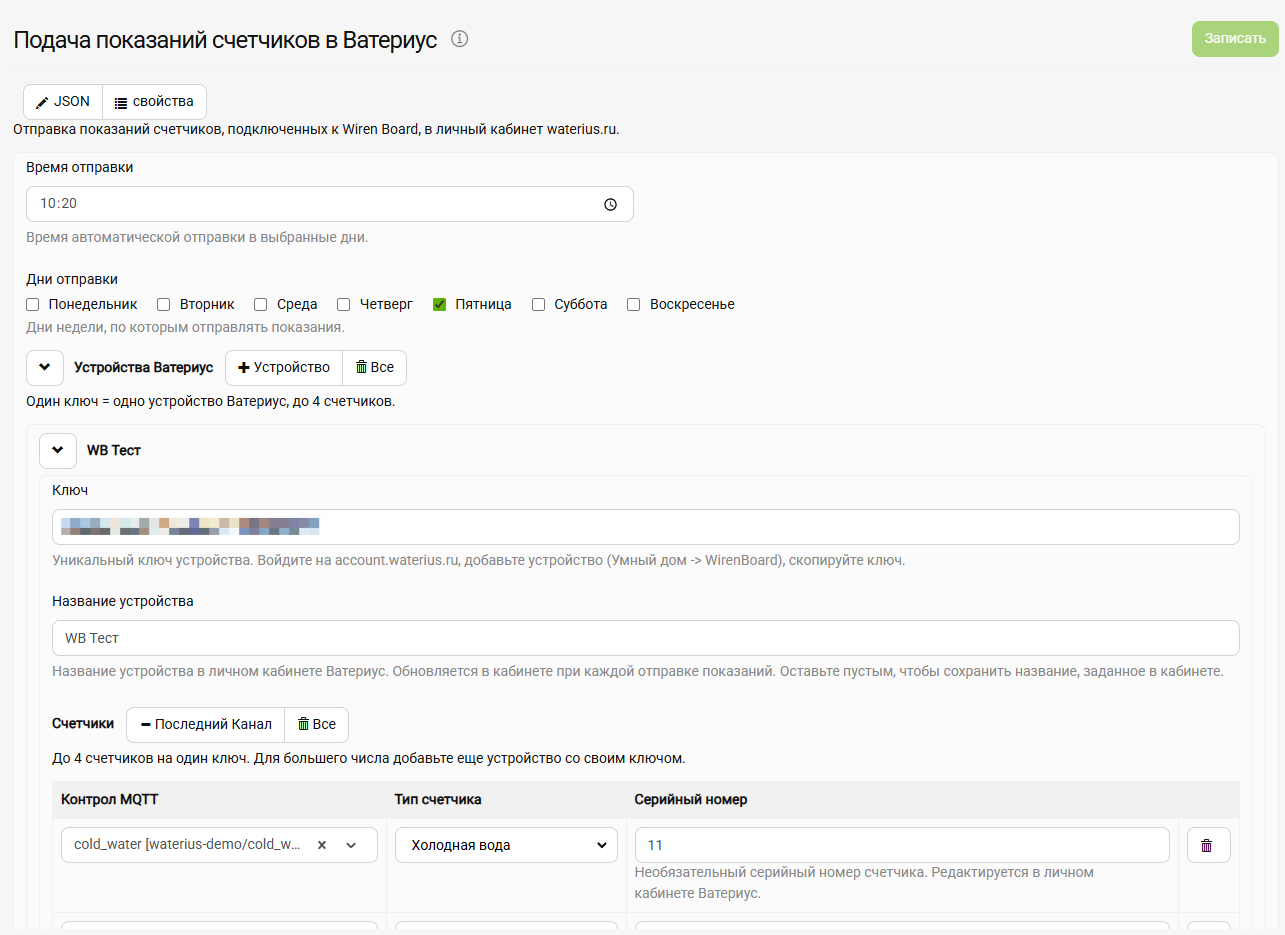
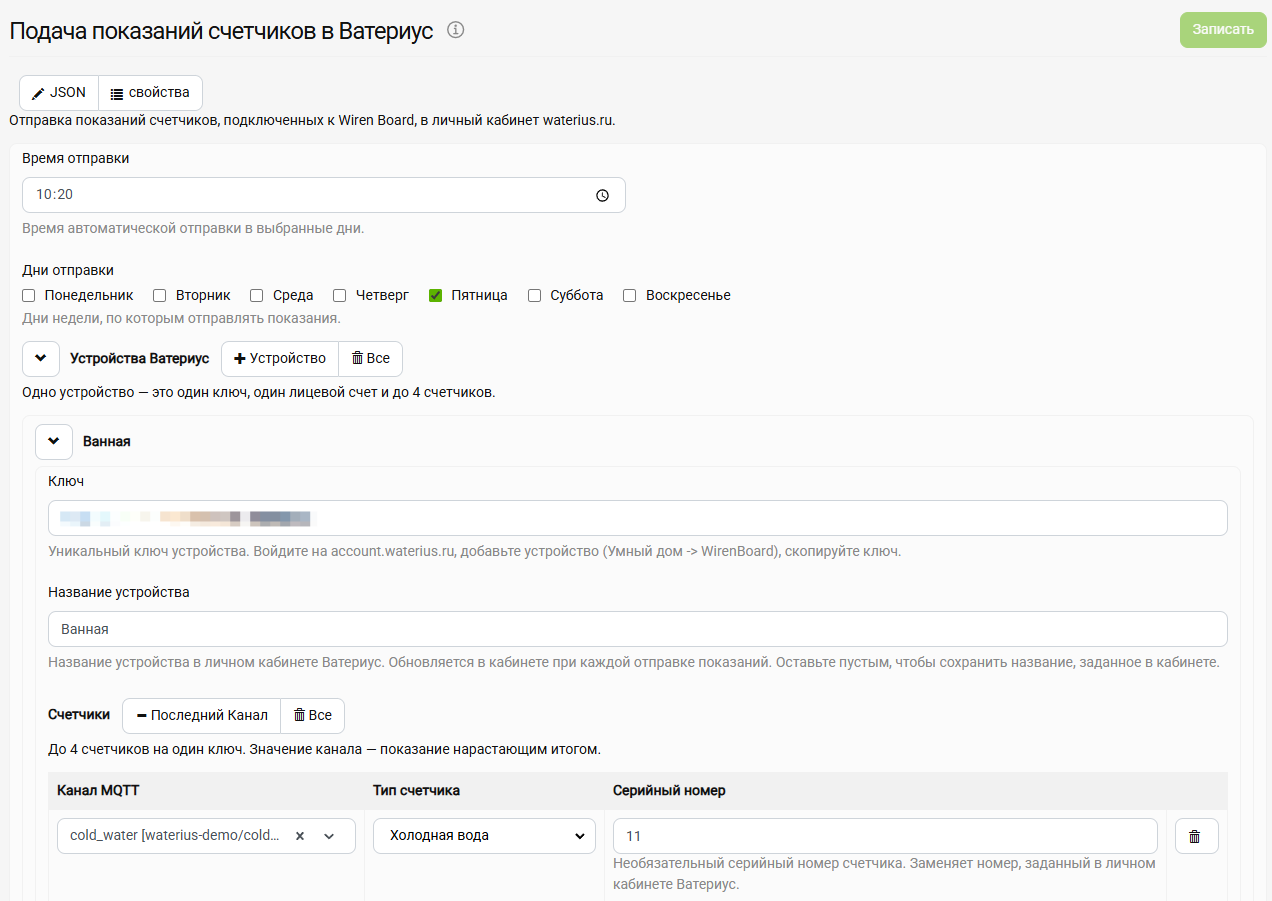
update after claude review

diff --git a/tests/test_service.py b/tests/test_service.py
@@ -438,6 +438,34 @@ def test_a_reconnect_republishes_the_status(monkeypatch: pytest.MonkeyPatch) -> 
     assert client.last(f"{INTEGRATION_BASE}/controls/next_execution") == "Thursday 2026-07-16 12:00"
 
 
+def test_a_missed_slot_minute_still_moves_next_execution(monkeypatch: pytest.MonkeyPatch) -> None:
+    # A long pass steps over the exact minute. The catch-up sends what has no mark anyway, and
+    # the next-run text has to follow the slot the loop never saw.
+    config = _config(Device("K1", [Channel("d/c", 0)]))
+    topic = config.devices[0].channels[0].mqtt_topic
+    service_instance, client = _service(
+        config, values={topic: "10"}, now=datetime.datetime(2026, 7, 16, 12, 1)
+    )
+    _patch_send(monkeypatch, lambda payload, stop_event=None: waterius_api.SendResult(True, 200))
+    service_instance._send_scheduled()
+    assert client.last(f"{INTEGRATION_BASE}/controls/next_execution") == "Friday 2026-07-17 12:00"
+
+
+def test_the_next_run_text_goes_out_once_a_day(monkeypatch: pytest.MonkeyPatch) -> None:
+    # Every later pass of the same day sees the same slot, so the control is left alone.
+    config = _config(Device("K1", [Channel("d/c", 0)]))
+    topic = config.devices[0].channels[0].mqtt_topic
+    service_instance, client = _service(
+        config, values={topic: "10"}, now=datetime.datetime(2026, 7, 16, 12, 1)
+    )
+    _patch_send(monkeypatch, lambda payload, stop_event=None: waterius_api.SendResult(True, 200))
+    service_instance._send_scheduled()
+    client.published.clear()
+    service_instance._datetime_now = lambda: datetime.datetime(2026, 7, 16, 12, 2)
+    service_instance._send_scheduled()
+    assert f"{INTEGRATION_BASE}/controls/next_execution" not in [topic for topic, *_ in client.published]
+
+
 def test_the_scheduled_fire_moves_next_execution(monkeypatch: pytest.MonkeyPatch) -> None:
     # The slot has just been used, so the control has to point at the next allowed day. Nothing
     # else would move it before the next reconnect.
@@ -720,6 +748,69 @@ def test_a_restart_resumes_the_device_left_unsent(monkeypatch: pytest.MonkeyPatc
     fail_k2["on"] = False  # K2 recovers while the service was down
     restarted._send_scheduled()
     assert calls == ["K2"]
+
+
+class _FakeSignals:  # pylint: disable=too-few-public-methods
+    """
+    Stand-in for the signal module, so the test runs where SIGHUP does not exist.
+    """
+
+    SIGTERM, SIGINT, SIGHUP = 15, 2, 1
+
+    def __init__(self) -> None:
+        self.handlers: dict[int, Callable] = {}
+
+    def signal(self, signum: int, handler: Callable) -> None:
+        self.handlers[signum] = handler
+
+
+def test_a_source_value_arrives_through_the_client() -> None:
+    # The daemon rests on this wiring: the subscription has to hand incoming values to the
+    # reading callback, or every device reports no data and nothing is ever sent.
+    config = _config(Device("K1", [Channel("d/c", 0)]))
+    topic = config.devices[0].channels[0].mqtt_topic
+    service_instance, client = _service(config, values={})
+    service_instance._subscribe_readings()
+    client.publish(topic, "12.5")
+    assert service_instance._source_values[topic] == "12.5"
+    assert client.last(f"{KEY_DEVICE1_BASE}/controls/ch0") == "12.5"  # mirrored on the card too
+
+
+def test_the_daemon_stops_on_every_signal_it_takes(tmp_path: Path, monkeypatch: pytest.MonkeyPatch) -> None:
+    # SIGHUP is a stop here, not the config reload the convention suggests, so the whole set is
+    # worth pinning. Each handler has to reach stop_service, which is what ends the poll loop.
+    (tmp_path / "wb.conf").write_text(
+        '{"sendTime": "03:00", "daysOfWeek": ["monday"], "devices": []}', encoding="utf-8"
+    )
+    signals = _FakeSignals()
+    monkeypatch.setattr(service, "signal", signals)
+    started: dict[str, service.Service] = {}
+    monkeypatch.setattr(service.Service, "run", lambda self: started.setdefault("service", self))
+
+    assert service.main_daemon(str(tmp_path / "wb.conf"), client=FakeClient()) == service.EXIT_SUCCESS
+    assert set(signals.handlers) == {signals.SIGTERM, signals.SIGINT, signals.SIGHUP}
+    for signum, handler in signals.handlers.items():
+        started["service"]._stop_event.clear()
+        handler(signum, None)
+        assert started["service"]._stop_event.is_set()
+        assert started["service"]._wake_event.is_set()  # the loop wakes instead of sleeping out
+
+
+def test_the_slot_fires_again_the_next_day(monkeypatch: pytest.MonkeyPatch) -> None:
+    # The guard remembers the minute it fired in, so it has to remember the day as well —
+    # otherwise a long-lived daemon fires on its first day and never again.
+    config = _config(Device("K1", [Channel("d/c", 0)]))
+    topic = config.devices[0].channels[0].mqtt_topic
+    service_instance, _ = _service(config, values={topic: "10"})  # NOW is the send minute
+    sent: list[str] = []
+    _patch_send(
+        monkeypatch,
+        lambda payload, stop_event=None: sent.append(payload["key"]) or waterius_api.SendResult(True, 200),
+    )
+    service_instance._send_scheduled()
+    service_instance._datetime_now = lambda: NOW + datetime.timedelta(days=1)
+    service_instance._send_scheduled()
+    assert sent == ["K1", "K1"]
 
 
 def test_main_daemon_config_error_reports_invalid_state(

diff --git a/wb/mqtt_waterius/service.py b/wb/mqtt_waterius/service.py
@@ -102,6 +102,20 @@ def connect_and_wait(client: MQTTClient, timeout: int = CONNECT_TIMEOUT) -> None
 
 
 class Service:  # pylint: disable=too-many-instance-attributes
+    """
+    The daemon itself: schedule, sending, persistent state and the WB devices around them.
+
+    Lives in two threads. The poll loop owns the schedule, the sending and every publish to the
+    status controls, while the paho thread only brings in source readings and switch clicks and
+    hands the rest to the loop through events.
+
+    Args:
+        config: parsed configuration
+        endpoint: Waterius universal API URL
+        datetime_now_fn: source of the current time, injected so tests can freeze or advance it
+        client: MQTT client, injected by the entry points that need their own id and by tests
+    """
+
     def __init__(
         self,
         config: Config,
@@ -218,10 +232,10 @@ class Service:  # pylint: disable=too-many-instance-attributes
         """
         Publish the next-run control.
 
-        Three occasions move it — a (re)connect, which wipes the control, the scheduled minute,
-        which takes the slot to the next allowed day, and the switch, which turns the text into
-        a dash and back. Published at those three points, so nothing has to remember what the
-        broker was given last.
+        Three occasions move it — a (re)connect, which wipes the control, the first schedule
+        pass of the day past the slot, which takes it to the next allowed day, and the switch,
+        which turns the text into a dash and back. Published at those three points, so nothing
+        has to remember what the broker was given last.
         """
         now = self._datetime_now()
         if self._enabled and self._config.devices:
@@ -276,14 +290,11 @@ class Service:  # pylint: disable=too-many-instance-attributes
         by the send itself, which names both the device and the topics.
         """
         topics = self._config.all_topics()
-        missing = [topic for topic in topics if not self._source_values.get(topic)]
-
         for _ in range(int(READINGS_TIMEOUT / READINGS_POLL)):
-            if not missing:
+            if all(self._source_values.get(topic) for topic in topics):
                 return
             if self._stop_event.wait(READINGS_POLL):
                 return
-            missing = [topic for topic in topics if not self._source_values.get(topic)]
 
     def _get_snapshot(self, device: Device) -> tuple[list[ChannelData], list[str]]:
         """
@@ -311,7 +322,8 @@ class Service:  # pylint: disable=too-many-instance-attributes
         """
         Build and log the payload of every configured device without sending anything.
 
-        Nothing outside is touched, not the cloud, not the WB devices, not the saved state.
+        The cloud is not touched, the payloads only reach the log. What the command around this
+        method does touch is listed in run_once.
 
         Returns:
             True when every device had a full set of readings
@@ -505,14 +517,18 @@ class Service:  # pylint: disable=too-many-instance-attributes
         if (now.hour, now.minute) < (self._send_hour, self._send_minute):
             return
         today = now.date().isoformat()
+        # The first pass of the day to get here is the one that finds today's slot behind it,
+        # whether it landed on the exact minute or stepped over it, so the next-run text follows.
+        first_pass_today = self._last_schedule_run is None or self._last_schedule_run[0] != today
         # A reconnect wakes the poll early, so the same minute can come round twice. Without
         # this the slot would fire twice and a failed device would be re-POSTed seconds apart.
         if self._last_schedule_run == (today, now.hour, now.minute):
             return
         self._last_schedule_run = (today, now.hour, now.minute)
+        if first_pass_today:
+            self._publish_next_run()
         if (now.hour, now.minute) == (self._send_hour, self._send_minute):
             self.send_now()
-            self._publish_next_run()  # the slot just moved to the next allowed day
             return
         unsent = self._get_unsent_devices(now)
         if unsent:
@@ -630,6 +646,11 @@ class Service:  # pylint: disable=too-many-instance-attributes
         Waiting for the source values belongs to the send itself, so this only connects,
         subscribes and dispatches. Unlike the daemon it makes a single pass with no retry, so
         a value that has not arrived by then is reported instead of being picked up later.
+
+        The command shares the devices and the state file with the daemon, in both modes. The
+        subscription mirrors the source values onto the key devices, the constructor rewrites
+        the state file when it prunes, and the outcome of a real send lands on the integration
+        device, so a manual send shows up on the card the same way a scheduled one does.
 
         Args:
             dry_run: build and log the payloads instead of posting them

diff --git a/wb/mqtt_waterius/mqtt_device.py b/wb/mqtt_waterius/mqtt_device.py
@@ -352,7 +352,7 @@ class _PublishedDevice:
         command that would arrive as a real one. Emptying a topic the broker never held costs
         one publish and nothing else.
         """
-        topics = []
+        topics: list[str] = []
         for control in self._controls:
             topic = self._control_topic(control)
             topics.extend([topic, f"{topic}/meta", f"{topic}/meta/error"])
@@ -374,6 +374,7 @@ class PerKeyDevice(_PublishedDevice):
         self._build_channels()
         # Restored from persistent state, kept current so a reconnect republishes it.
         self._last_sent = last_sent
+        self._last_error = ""  # filled by mark_failed, republished the same way
         super().__init__(
             client,
             base=f"/devices/{build_key_device_id(index)}",
@@ -408,10 +409,11 @@ class PerKeyDevice(_PublishedDevice):
     def _publish_initial_values(self) -> None:
         for control in self._channels:
             self._publish_control(control, "")
-        # Restore the persisted "Last Sent". "Errors" starts empty.
+        # Both come off the instance, so a reconnect brings the card back as it was. The stamp
+        # starts from the state file, the error text lives as long as the process.
         self._publish_control(KEY_LAST_SENT, self._last_sent)
-        self._publish_control(KEY_LAST_ERROR, "")
-        self._set_error(False)
+        self._publish_control(KEY_LAST_ERROR, self._last_error)
+        self._set_error(bool(self._last_error))
 
     def update_channel(self, mqtt_topic: str, raw_value: Optional[str]) -> None:
         """
@@ -443,6 +445,7 @@ class PerKeyDevice(_PublishedDevice):
         The stamp is kept in the instance too, so a reconnect republishes it.
         """
         self._last_sent = timestamp
+        self._last_error = ""
         self._publish_control(KEY_LAST_SENT, timestamp)
         self._publish_control(KEY_LAST_ERROR, "")
         self._set_error(False)
@@ -450,7 +453,11 @@ class PerKeyDevice(_PublishedDevice):
     def mark_failed(self, detail: str) -> None:
         """
         A failed send (API error or unavailable channels): show detail on "Errors".
+
+        The text is kept in the instance for the same reason the stamp is — the clean slate of a
+        reconnect wipes the card, while the service keeps its verdict in memory.
         """
+        self._last_error = detail
         self._publish_control(KEY_LAST_ERROR, detail)
         self._set_error(True)
 
@@ -632,7 +639,7 @@ class WateriusDevices:
         rest of the system.
         """
         self._integration_device.unsubscribe_switch()
-        topics = []
+        topics: list[str] = []
         for key_device in self._key_devices:
             topics.extend(key_device.remove())
         topics.extend(self._integration_device.remove())

diff --git a/tests/test_mqtt_device.py b/tests/test_mqtt_device.py
@@ -341,6 +341,30 @@ def test_clear_through_the_facade_wipes_the_same_topics() -> None:
     }
 
 
+def test_a_key_device_error_survives_a_reconnect() -> None:
+    # The reconnect wipes the card and recreates it, while the service keeps its verdict in
+    # memory. A device that forgot its error would leave the integration red without a reason.
+    client = FakeClient()
+    devices = _devices(client, _single_config())
+    devices.create()
+    devices.mark_device_failed(0, "Key not accepted by Waterius")
+    devices.remove()
+    devices.create()
+    assert client.last(f"{KEY_DEVICE1_BASE}/controls/last_error") == "Key not accepted by Waterius"
+    assert client.last(f"{KEY_DEVICE1_BASE}/controls/last_error/meta/error") == "w"
+
+
+def test_a_successful_send_clears_the_remembered_error() -> None:
+    client = FakeClient()
+    devices = _devices(client, _single_config())
+    devices.mark_device_failed(0, "HTTP 500")
+    devices.mark_device_sent(0, "2026-01-01 03:00:00")
+    devices.remove()
+    devices.create()
+    assert client.last(f"{KEY_DEVICE1_BASE}/controls/last_error") == ""
+    assert client.last(f"{KEY_DEVICE1_BASE}/controls/last_error/meta/error") == ""
+
+
 def test_remove_empties_everything_create_published() -> None:
     # A clean stop must leave nothing behind, so the removal list has to cover the whole device.
     client = FakeClient()

diff --git a/wb/mqtt_waterius/schedule.py b/wb/mqtt_waterius/schedule.py
@@ -12,9 +12,23 @@ WEEKDAY_NAMES = ["Monday", "Tuesday", "Wednesday", "Thursday", "Friday", "Saturd
 
 def next_run(hour: int, minute: int, days: set[int], now: datetime.datetime) -> Optional[datetime.datetime]:
     """
-    Next hour and minute on an allowed weekday, strictly after `now`.
+    Next occurrence of the given hour and minute on an allowed weekday, strictly after now.
 
-    days — datetime.weekday() indices (Monday=0). Returns None if empty.
+    Args:
+        hour: hour of the send time
+        minute: minute of the send time
+        days: allowed weekdays as datetime.weekday() indices, Monday=0
+        now: moment to search forward from
+
+    Returns:
+        The next moment, or None when no weekday is allowed
+
+    Examples:
+        >>> import datetime
+        >>> next_run(12, 0, {3, 4}, datetime.datetime(2026, 7, 16, 12, 0))
+        datetime.datetime(2026, 7, 17, 12, 0)
+        >>> next_run(12, 0, set(), datetime.datetime(2026, 7, 16, 9, 0)) is None
+        True
     """
     if not days:
         return None

diff --git a/tests/test_state.py b/tests/test_state.py
@@ -23,6 +23,14 @@ def test_state_roundtrip() -> None:
     assert loaded["last_sent"] == {"a1b2c3d4e5f6": moment}
 
 
+def test_the_raw_key_never_reaches_the_state_file() -> None:
+    # The map is keyed by a hash so the file carries no credential of its own.
+    key = "01234567890123456789012345678901"
+    assert state.key_hash(key) != key
+    state.save_state({"enabled": True, "last_sent": {state.key_hash(key): "2026-07-16T12:00:00"}})
+    assert key not in Path(state.STATE_FILE).read_text(encoding="utf-8")
+
+
 def test_state_drops_a_moment_it_cannot_read() -> None:
     # A hand-edited file must not crash the daemon. The device simply counts as never sent.
     state.save_state({"enabled": True, "last_sent": {"a1b2c3d4e5f6": "вчера"}})

diff --git a/wb/mqtt_waterius/state.py b/wb/mqtt_waterius/state.py
@@ -78,7 +78,7 @@ def _get_sent_moments(raw: Any) -> dict[str, str]:
     """
     if not isinstance(raw, dict):
         return {}
-    moments = {}
+    moments: dict[str, str] = {}
     for hashed_key, moment in raw.items():
         try:
             datetime.datetime.fromisoformat(moment)
